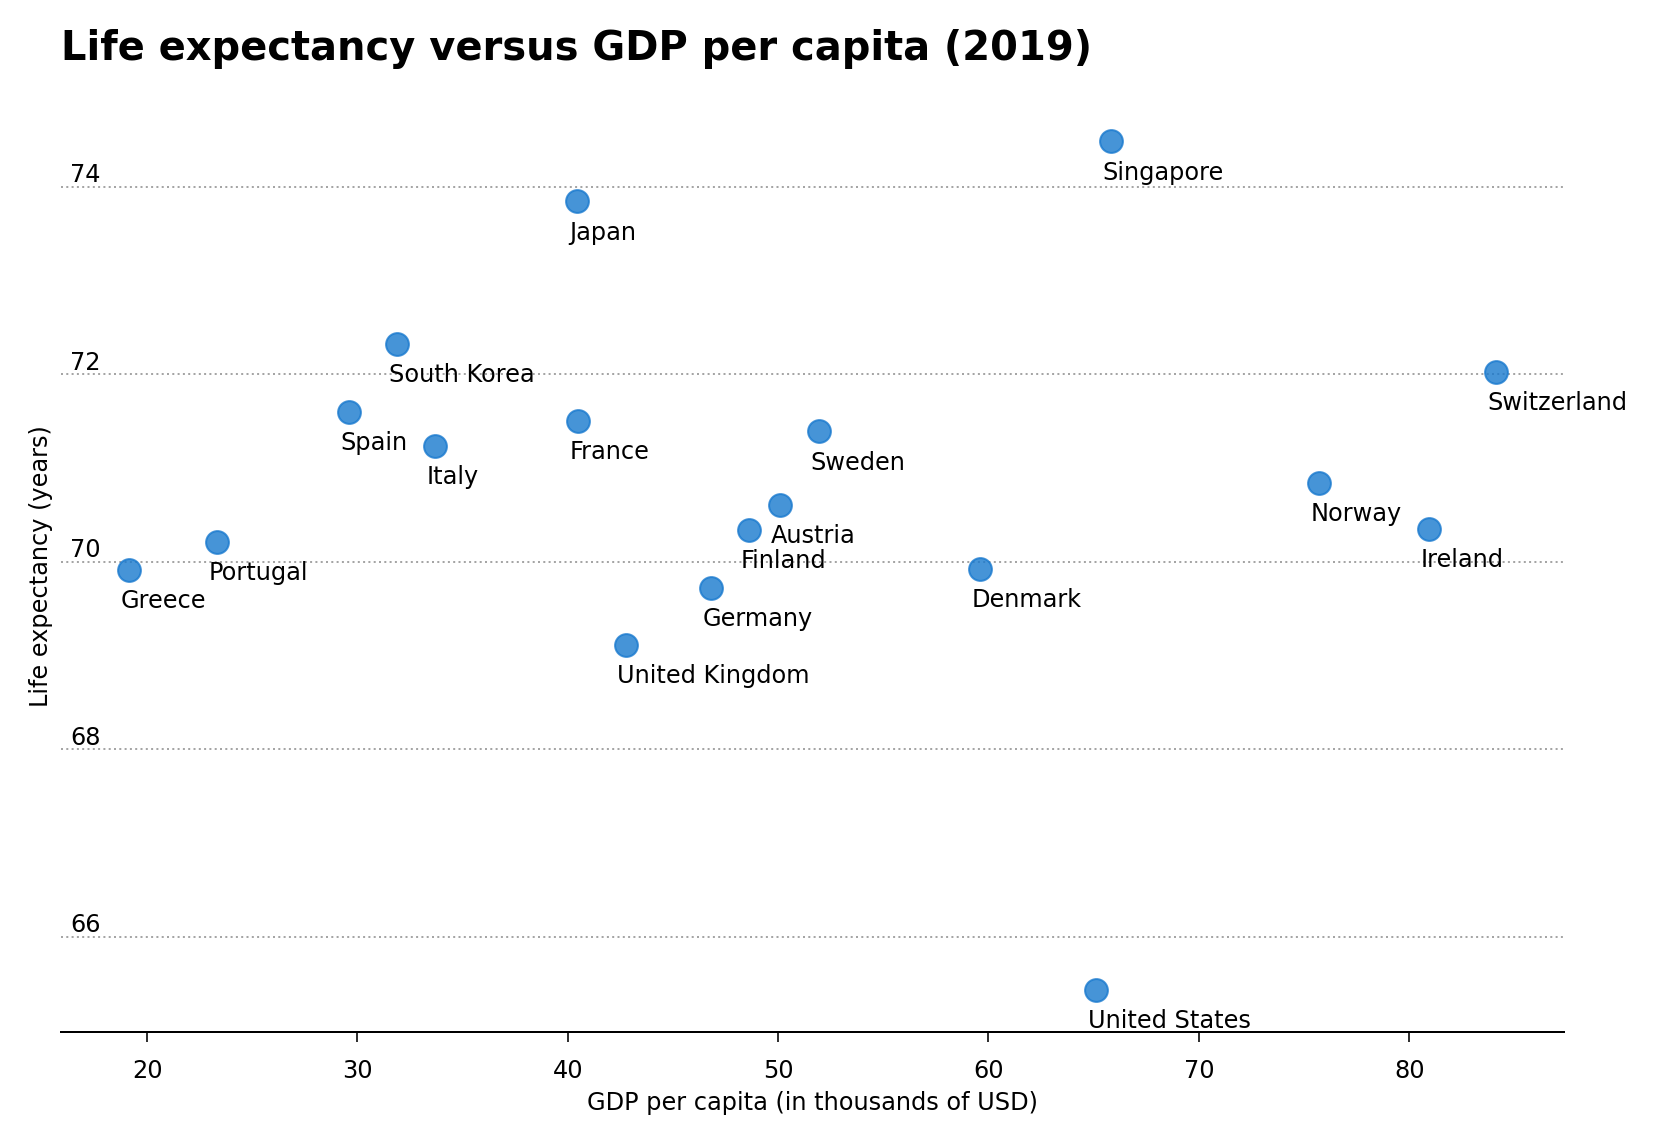
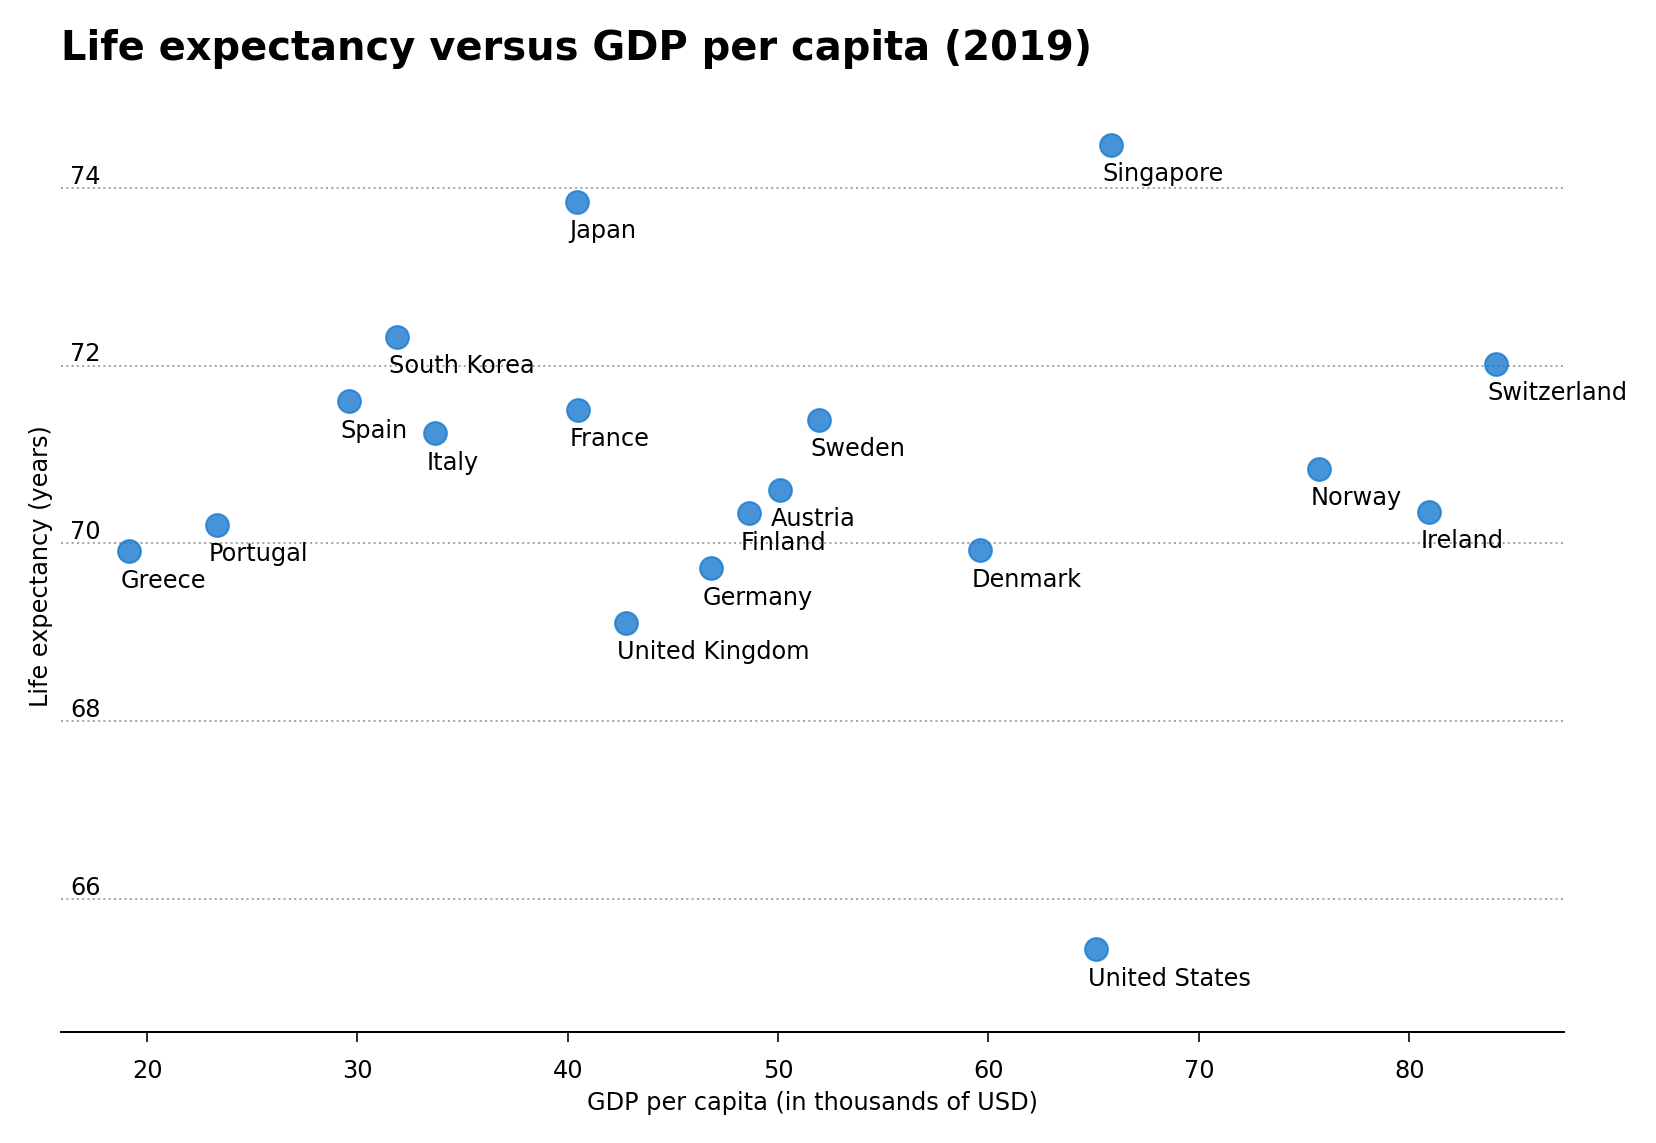
Scaled y axis from 64.5 to 75

diff --git a/life-expectancy-vs-gdp.py b/life-expectancy-vs-gdp.py
@@ -54,6 +54,7 @@ fig, ax = plt.subplots(figsize=(12, 8))
 ax.scatter(select_countries_df['GDP per capita'],
            select_countries_df['Life Expectancy'],
            alpha=0.8, color='#1879CE', s=130)
+ax.set_ylim([64.5, 75])
 ticks = ticker.FuncFormatter(lambda x, pos: '{0:g}'.format(x*1e-3))
 ax.xaxis.set_major_formatter(ticks)
 
@@ -67,4 +68,4 @@ le = merged_df['Life Expectancy']
 for label in selected_countries:
     ax.annotate(label, (gdp_pc.loc[label]-400, le.loc[label]-0.4))
 
-plt.savefig(work_dir / 'plots/life_expectancy_vs_gdp.png', bbox_inches='tight')
+plt.savefig(work_dir / 'plots/life_expectancy_vs_gdp.png')
